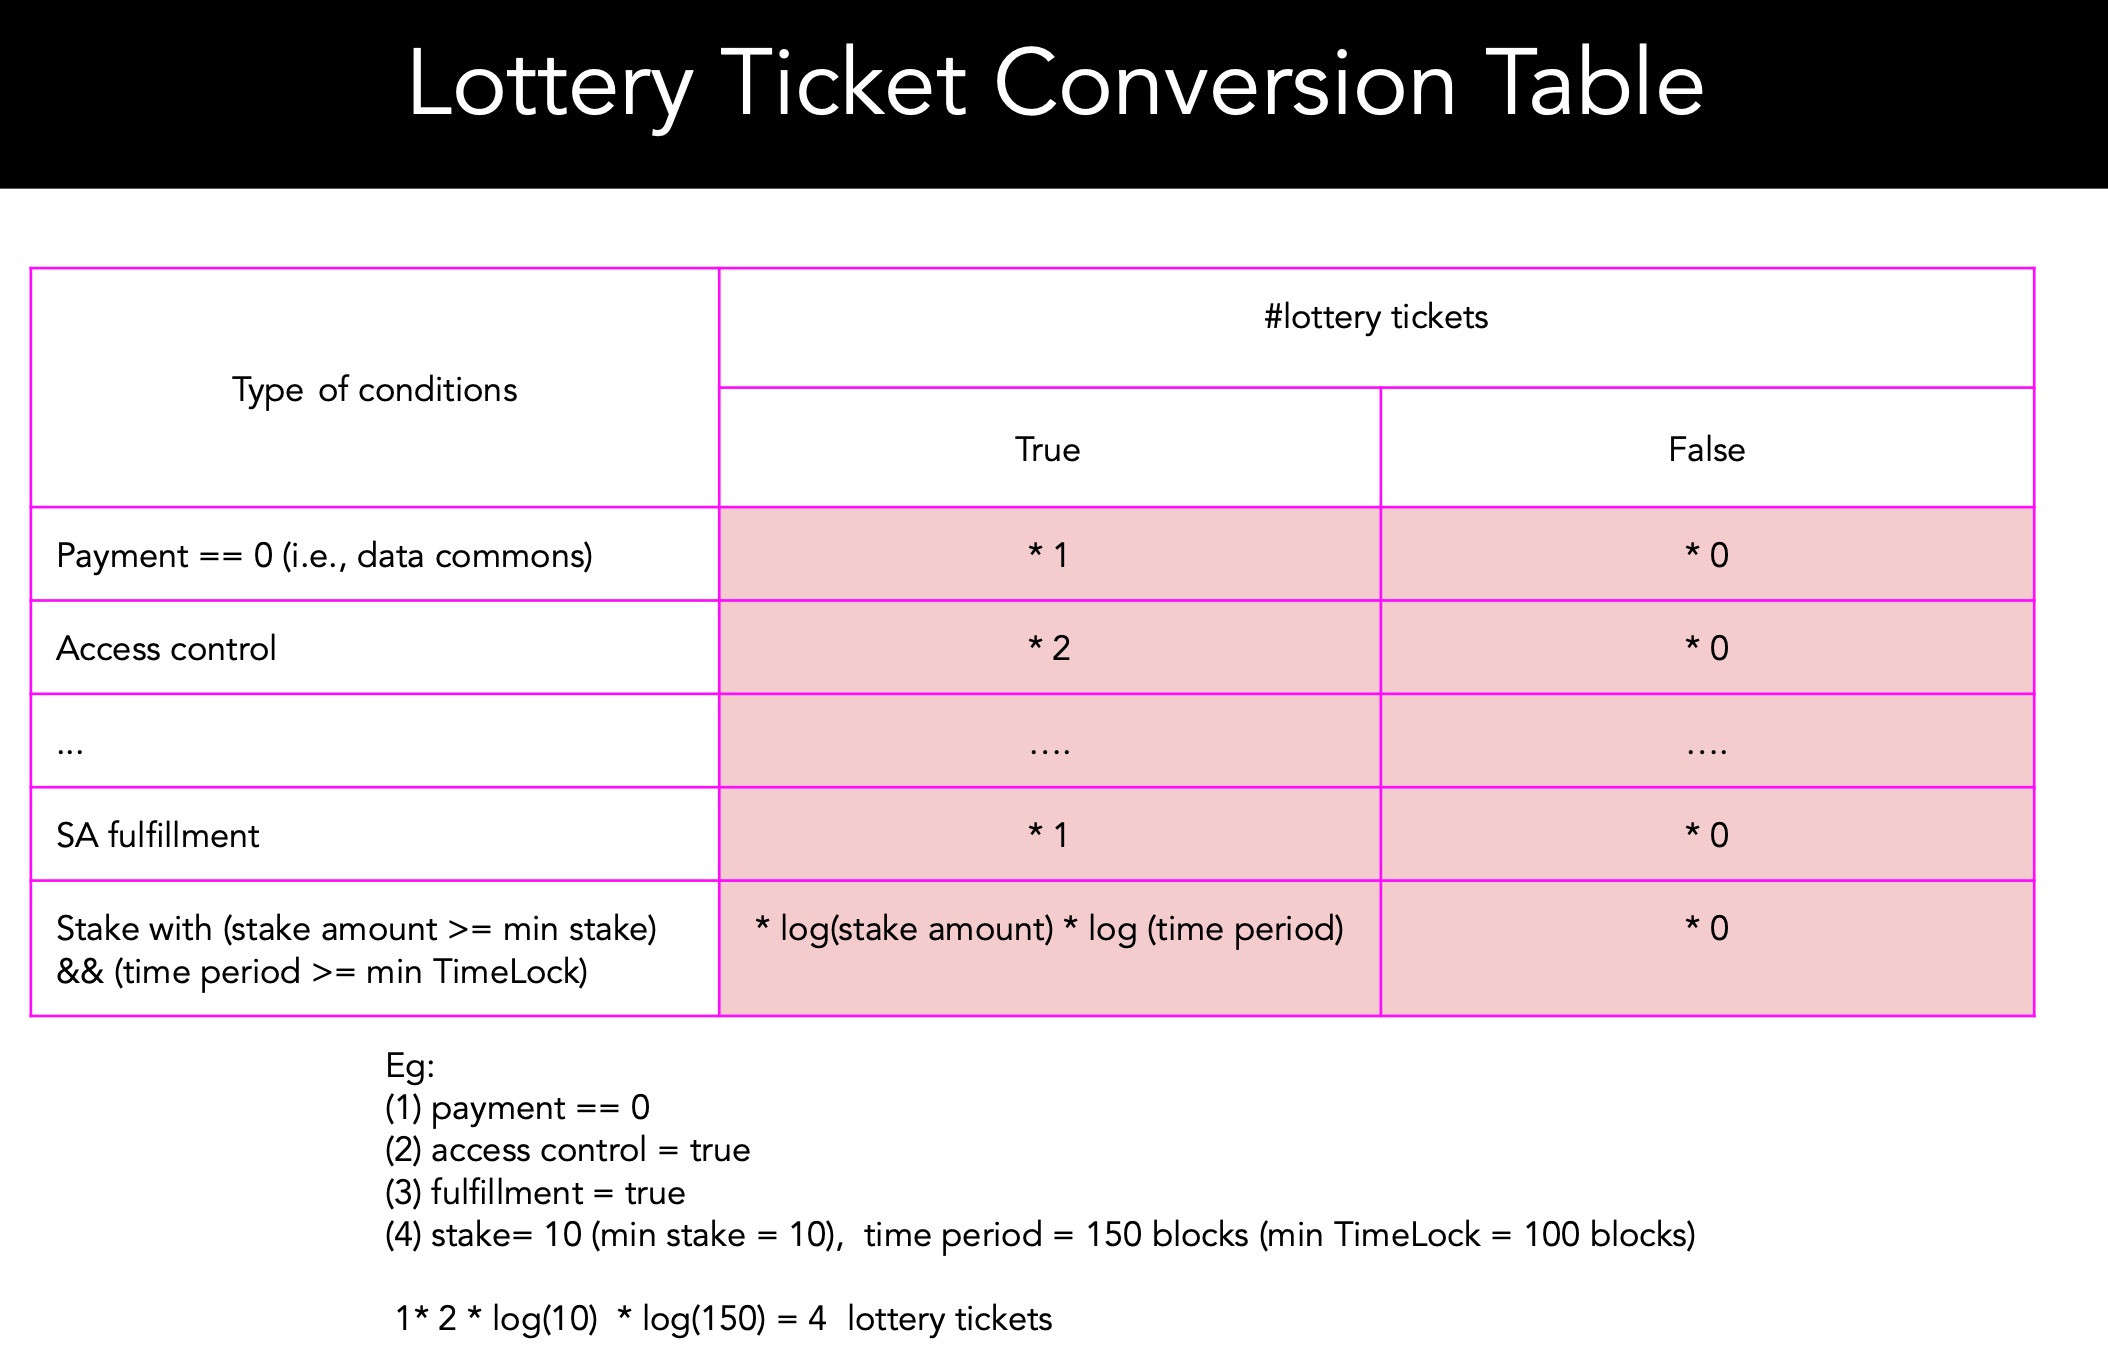
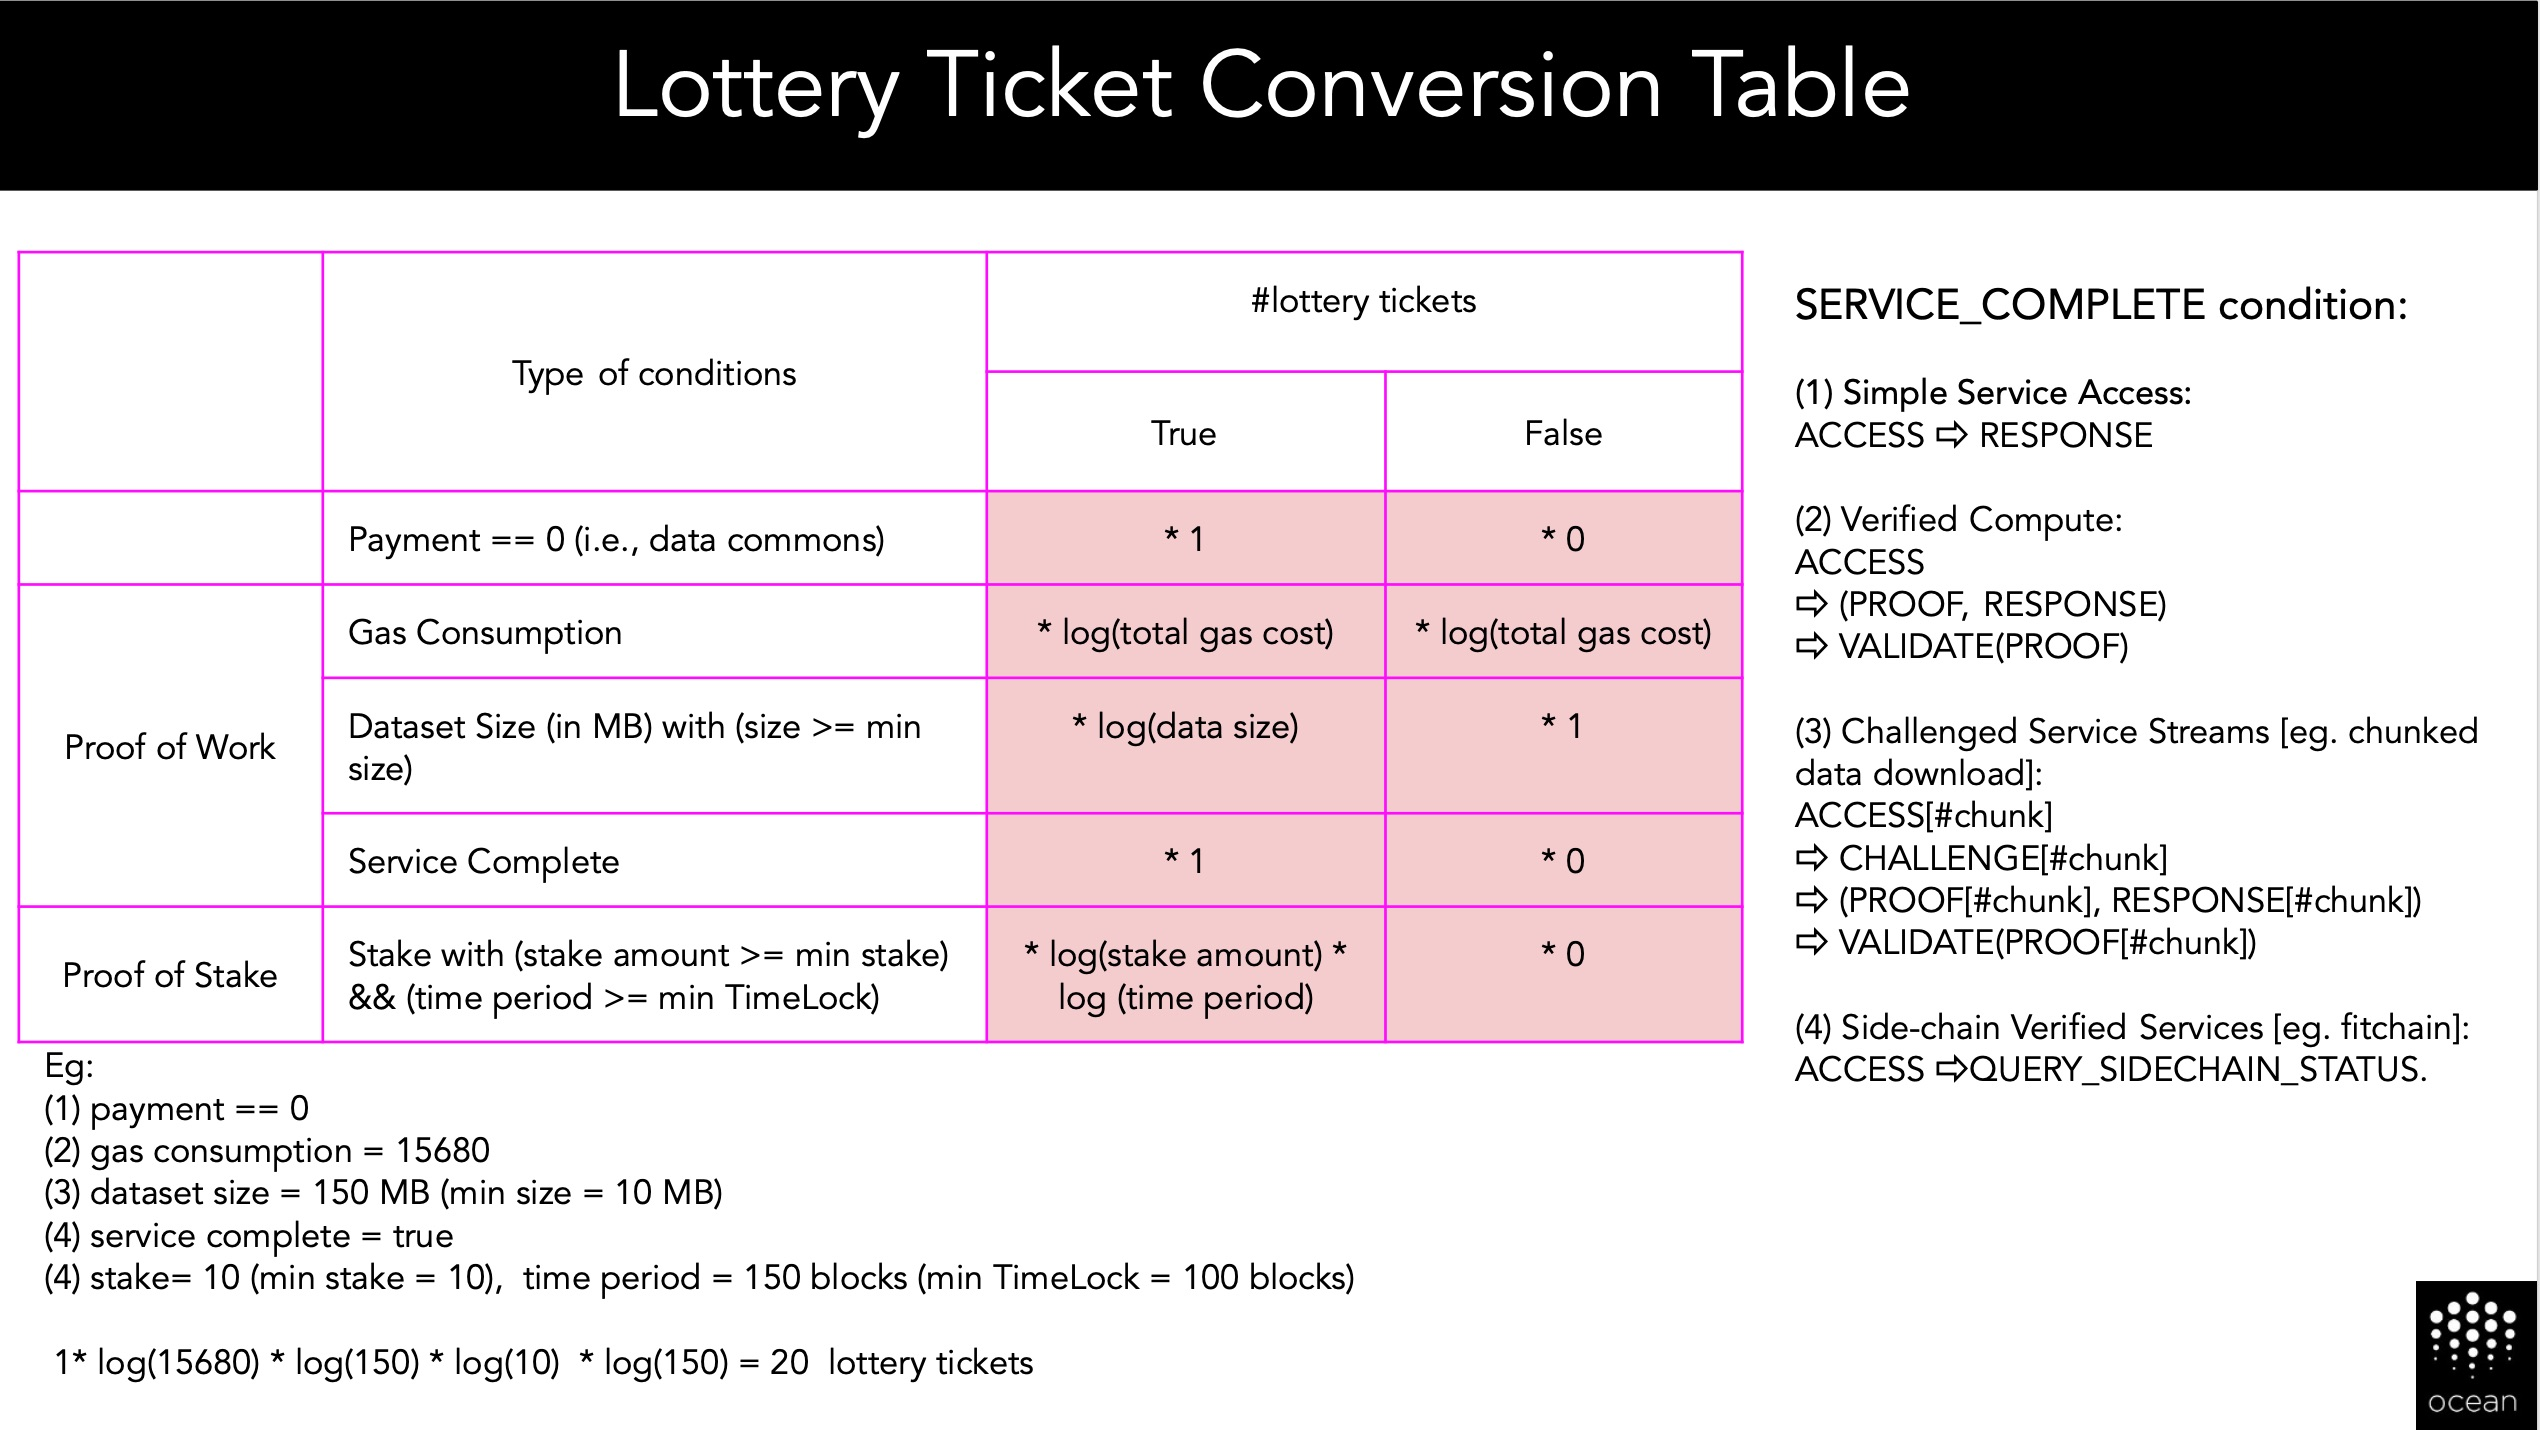
update conversion table

Changed region(s): [[0.0, 0.1243, 1.0, 1.0], [0.185, 0.0311, 0.8017, 0.0932], [0.1233, 0.2485, 0.3083, 0.3107]]

diff --git a/doc/refactoring_design.md b/doc/refactoring_design.md
@@ -142,7 +142,10 @@ Below diagram shows how to calculate the number of lottery tickets based on serv
 
 Key component is the conversion table that converts service conditions into a specific amount of lottery tickets. 
 
-Below is a first-cut design, where it calculates the `logarithm` of stake amount and time period to avoid impact of huge amount of stake. Otherwise, big whales can stake huge amount of stakes to have extremely high probability of winning network rewards.
+We use a mixed **proof-of-work + proof-of-stake** method to determine the number of lottery tickets. 
+
+* **Proof of Work**: provider can prove their work using the gas consumption for computing, the dataset size (in MB) and service complete proof. `logarithm` is used to average the impact from those factors. As such, the computing formula is different for each different service and provider.
+* **Proof of Stake**: provider need to put in stake on the service in order to receive the lottery ticket. Similarly, `logarithm` of stake amount and time period are used to avoid impact of huge amount of stake. Otherwise, big whales can stake huge amount of stakes to have extremely high probability of winning network rewards.
 
 <img src="img/refactoring/rewardConversion.jpg" width="800" />
 
